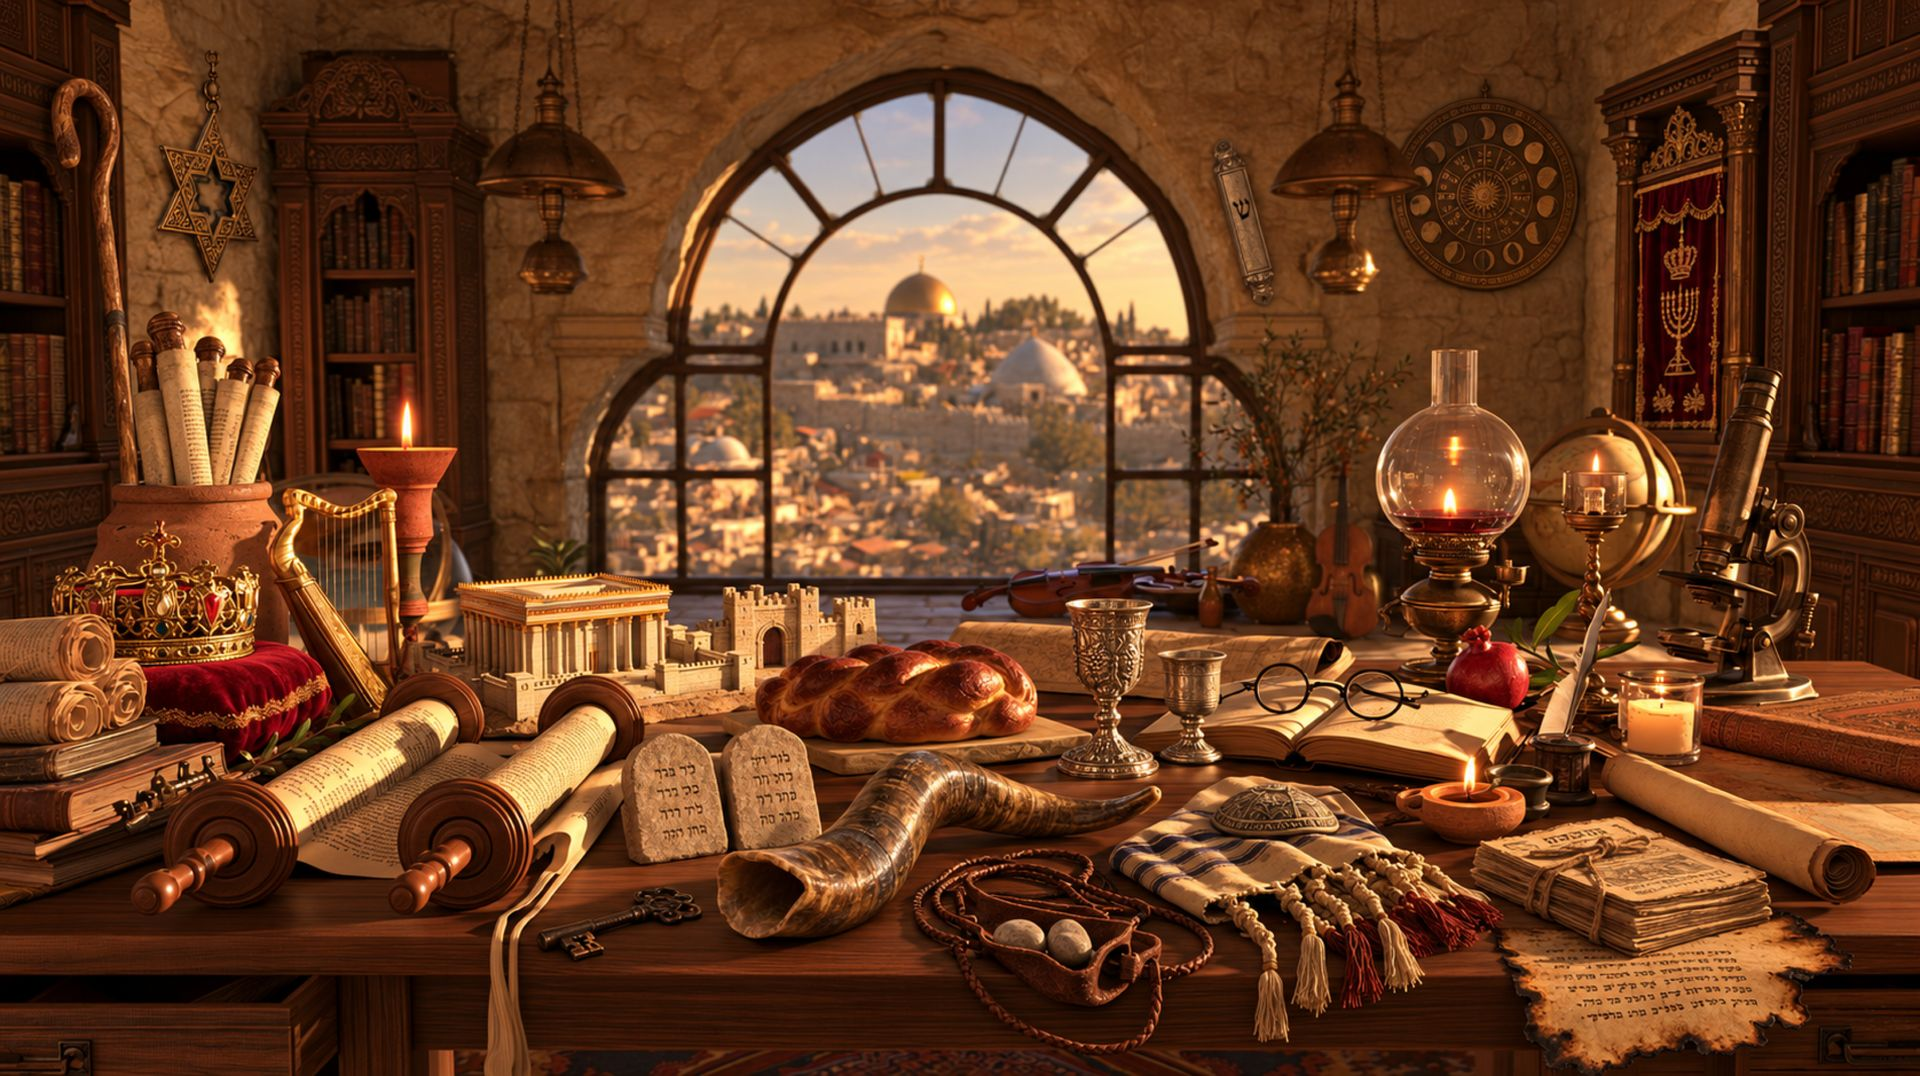
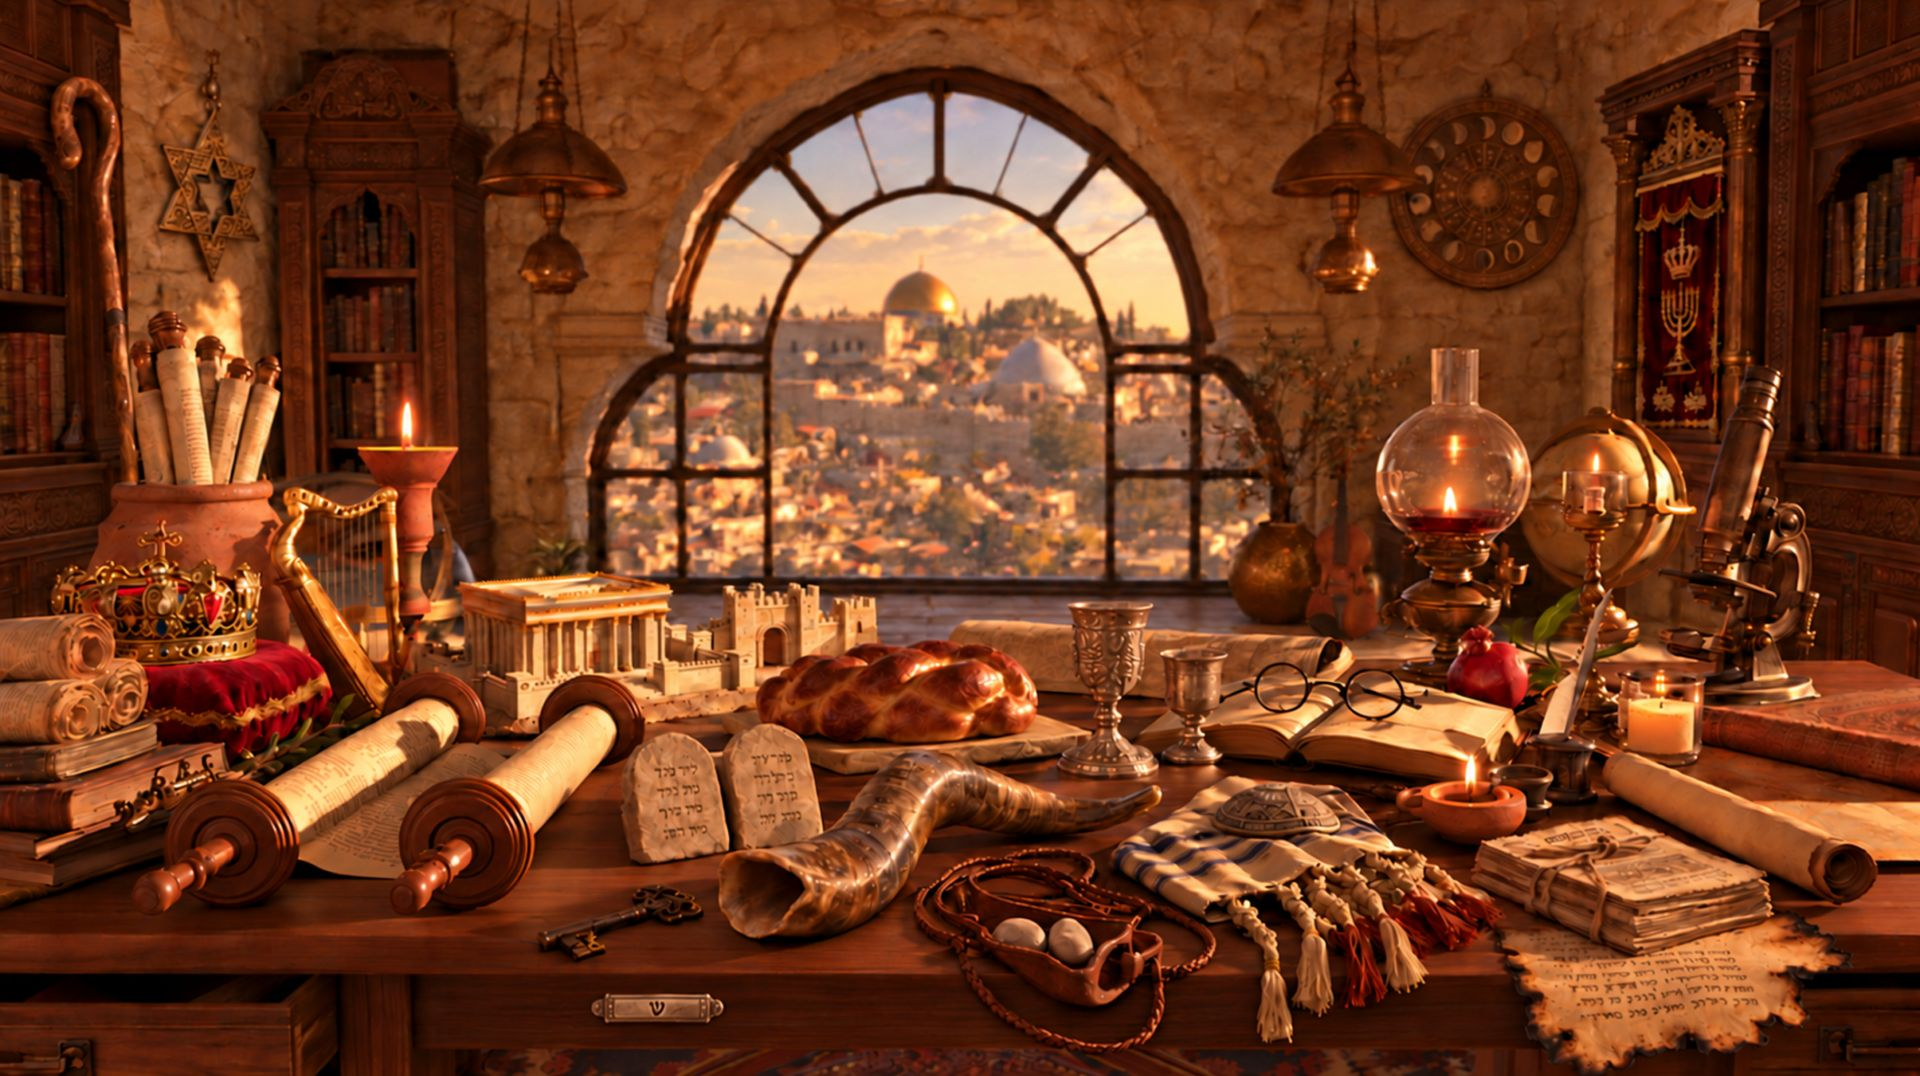
Table page: latest 4K study image (lying violin removed)

diff --git a/learn/jewish-history/table/index.html b/learn/jewish-history/table/index.html
@@ -7,15 +7,15 @@
   <meta name="robots" content="noindex, nofollow">
   <meta name="theme-color" content="#1a0f07">
   <link rel="icon" href="/assets/favicon.svg" type="image/svg+xml">
-  <link rel="preload" as="image" href="/assets/jewish-study-table.jpg?v=4" imagesrcset="/assets/jewish-study-table-1920.jpg?v=4 1920w, /assets/jewish-study-table.jpg?v=4 3840w" imagesizes="max(100vw, 178.52vh)">
+  <link rel="preload" as="image" href="/assets/jewish-study-table.jpg?v=5" imagesrcset="/assets/jewish-study-table-1920.jpg?v=5 1920w, /assets/jewish-study-table.jpg?v=5 3840w" imagesizes="max(100vw, 178.44vh)">
   <style>
-    /* Image is 3840 x 2151. The stage keeps that shape and always fills the screen:
+    /* Image is 3840 x 2152. The stage keeps that shape and always fills the screen:
        wide screens crop a little top and bottom, tall phones scroll sideways. */
-    :root { --r: 1.7852; }
+    :root { --r: 1.7844; }
     html, body { margin: 0; height: 100%; overflow: hidden; background: #1a0f07; }
     .scene { position: fixed; inset: 0; overflow: hidden; }
     .stage { position: absolute; left: 50%; top: 50%; transform: translate(-50%, -50%);
-      width: max(100vw, calc(100dvh * var(--r))); aspect-ratio: 3840 / 2151; }
+      width: max(100vw, calc(100dvh * var(--r))); aspect-ratio: 3840 / 2152; }
     .stage img { display: block; width: 100%; height: 100%; user-select: none; -webkit-user-drag: none; }
     /* Phones held upright: full height, swipe sideways along the table */
     @media (orientation: portrait) {
@@ -36,7 +36,7 @@
   <a class="back" href="/learn/jewish-history/">← Back</a>
   <main class="scene">
     <div class="stage">
-      <img src="/assets/jewish-study-table.jpg?v=4" srcset="/assets/jewish-study-table-1920.jpg?v=4 1920w, /assets/jewish-study-table.jpg?v=4 3840w" sizes="max(100vw, 178.52vh)" width="3840" height="2151" alt="A scholar's study in Jerusalem filled with objects from Jewish history, with the Old City and the Temple Mount seen through an arched window">
+      <img src="/assets/jewish-study-table.jpg?v=5" srcset="/assets/jewish-study-table-1920.jpg?v=5 1920w, /assets/jewish-study-table.jpg?v=5 3840w" sizes="max(100vw, 178.44vh)" width="3840" height="2152" alt="A scholar's study in Jerusalem filled with objects from Jewish history, with the Old City and the Temple Mount seen through an arched window">
       <!-- e.g. <a class="spot" href="..." style="left:47%;top:46%;width:10%;height:11%" aria-label="Kings and kingdoms"></a> -->
     </div>
   </main>
